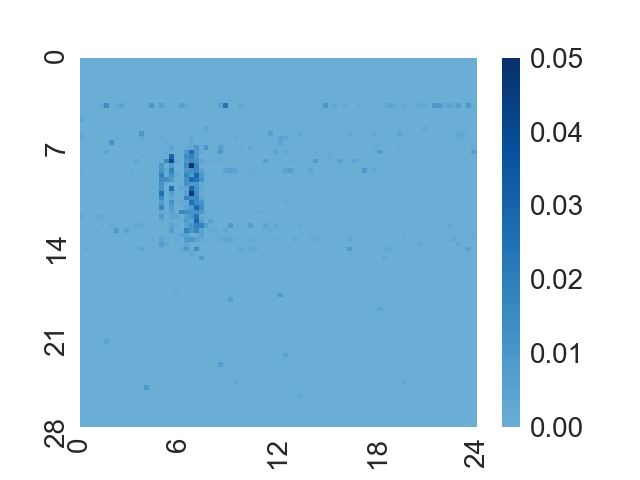
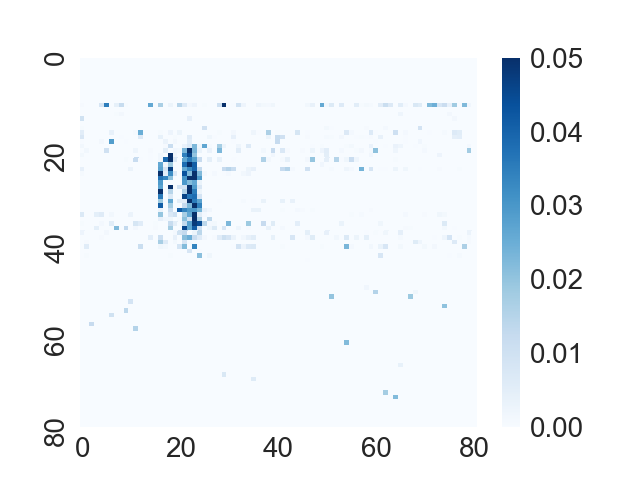
:beer: influence figure

diff --git a/check_save_transitions.py b/check_save_transitions.py
@@ -24,10 +24,11 @@ for i in range(4):
   observation.append(np.reshape(temp[i * 3600:(i + 1) * 3600], (45, 80)))
 
 # print(observation[0])
-first_image_plot = np.zeros((80, 80))
+first_image_plot = np.zeros((81, 81))
 for k in range(4):
-  first_image = np.flip(observation[k], axis=1)
-  first_image_plot[:][10:55] += first_image
+  first_image = np.zeros((81, 45))
+  first_image[:80] = np.transpose(np.flip(observation[k], axis=1))
+  first_image_plot[:][10:55] += np.transpose(first_image)
   # x = []
   # y = []
   # for i in range(80):
@@ -40,23 +41,21 @@ for k in range(4):
   #       x.append(j)
   #       y.append(i)
   #       first_image_plot[i][j] = PIXEL_COLOR
-# pure = np.linspace(-1, 1, 100)
-# noise = np.random.normal(0, 1, pure.shape)
-# print (noise)
 for i in range(50, 75):
   for j in range(80):
     if random.randint(0, 1000) % 100 == 0:
       first_image_plot[i][j] += random.random() / 100
-# for i in range(80):
-#   for j in range(80):
-#     first_image_plot[i][j] *= 200
+for i in range(80):
+  for j in range(80):
+    first_image_plot[i][j] *= 2.5
 sns.set(font_scale=2)
-fig = sns.heatmap(first_image_plot, vmin = 0, vmax = 0.05, center = 0, cmap='Blues')
-# fig.xaxis([0, 81, 20])
-major_ticks = np.arange(0, 81, 20)
-print(major_ticks)
-fig.set_xticks(major_ticks)
-fig.set_yticks(major_ticks)
+fig = sns.heatmap(first_image_plot, xticklabels=20, yticklabels=20,
+                  vmin = 0, vmax = 0.05, cmap='Blues')
+# fig.axis([0, 81, 81, 0])
+# major_ticks = np.arange(0, 81, 20)
+# print(major_ticks)
+# fig.set_xticks(major_ticks)
+# fig.set_yticks(major_ticks)
 # mpl_fig = plt.figure()
 # ax = mpl_fig.add_subplot(111)
 # x=[0, 1, 2, 3, 4, 5, 6, 7, 8]
